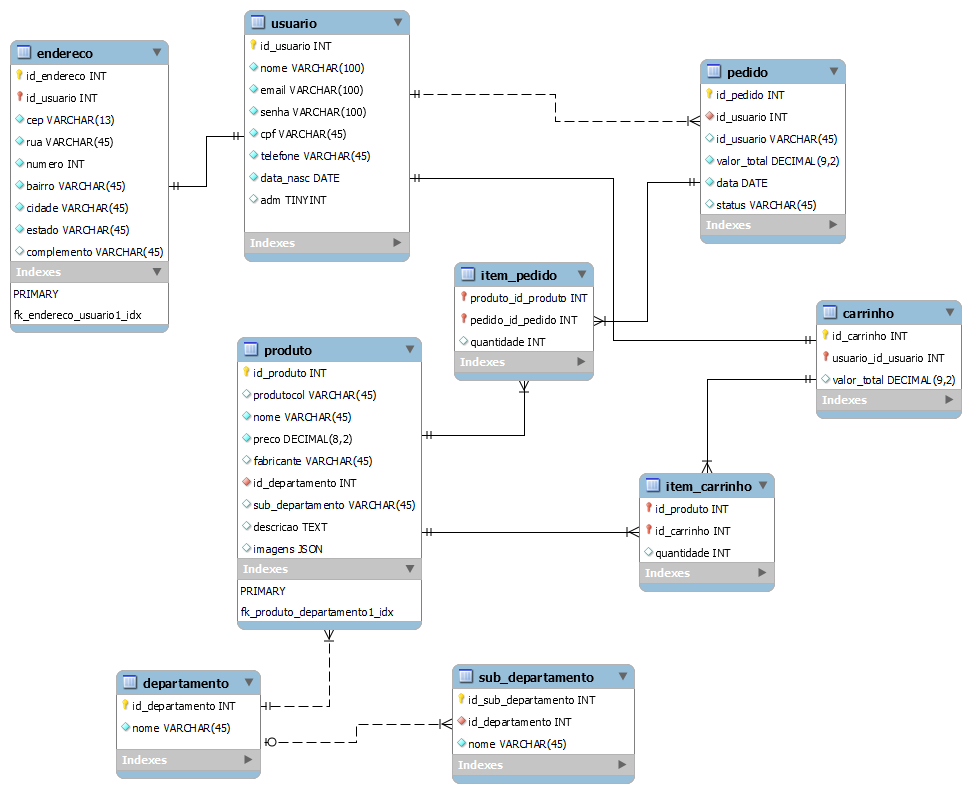
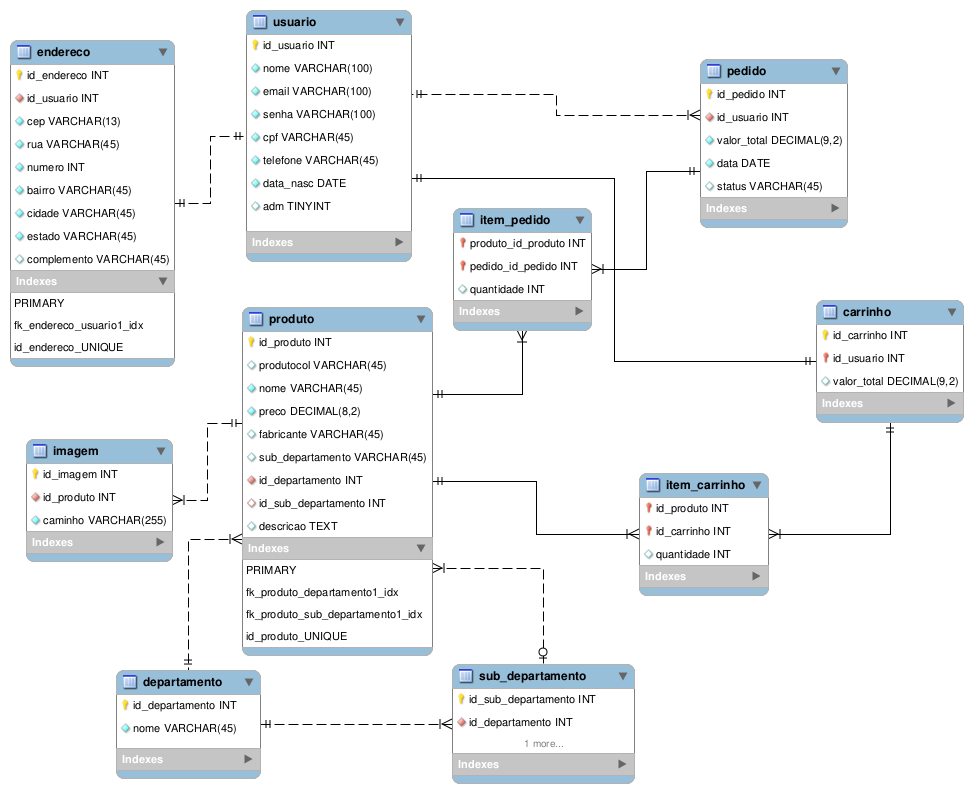
Ajuste no banco e nas models

diff --git a/src/models/Usuario.js b/src/models/Usuario.js
@@ -4,7 +4,6 @@ module.exports = (sequelize, DataType) => {
       type: DataType.INTEGER,
       primaryKey: true,
       autoIncrement: true,
-      unsigned: true
     },
     nome: {
       type: DataType.STRING(100)
